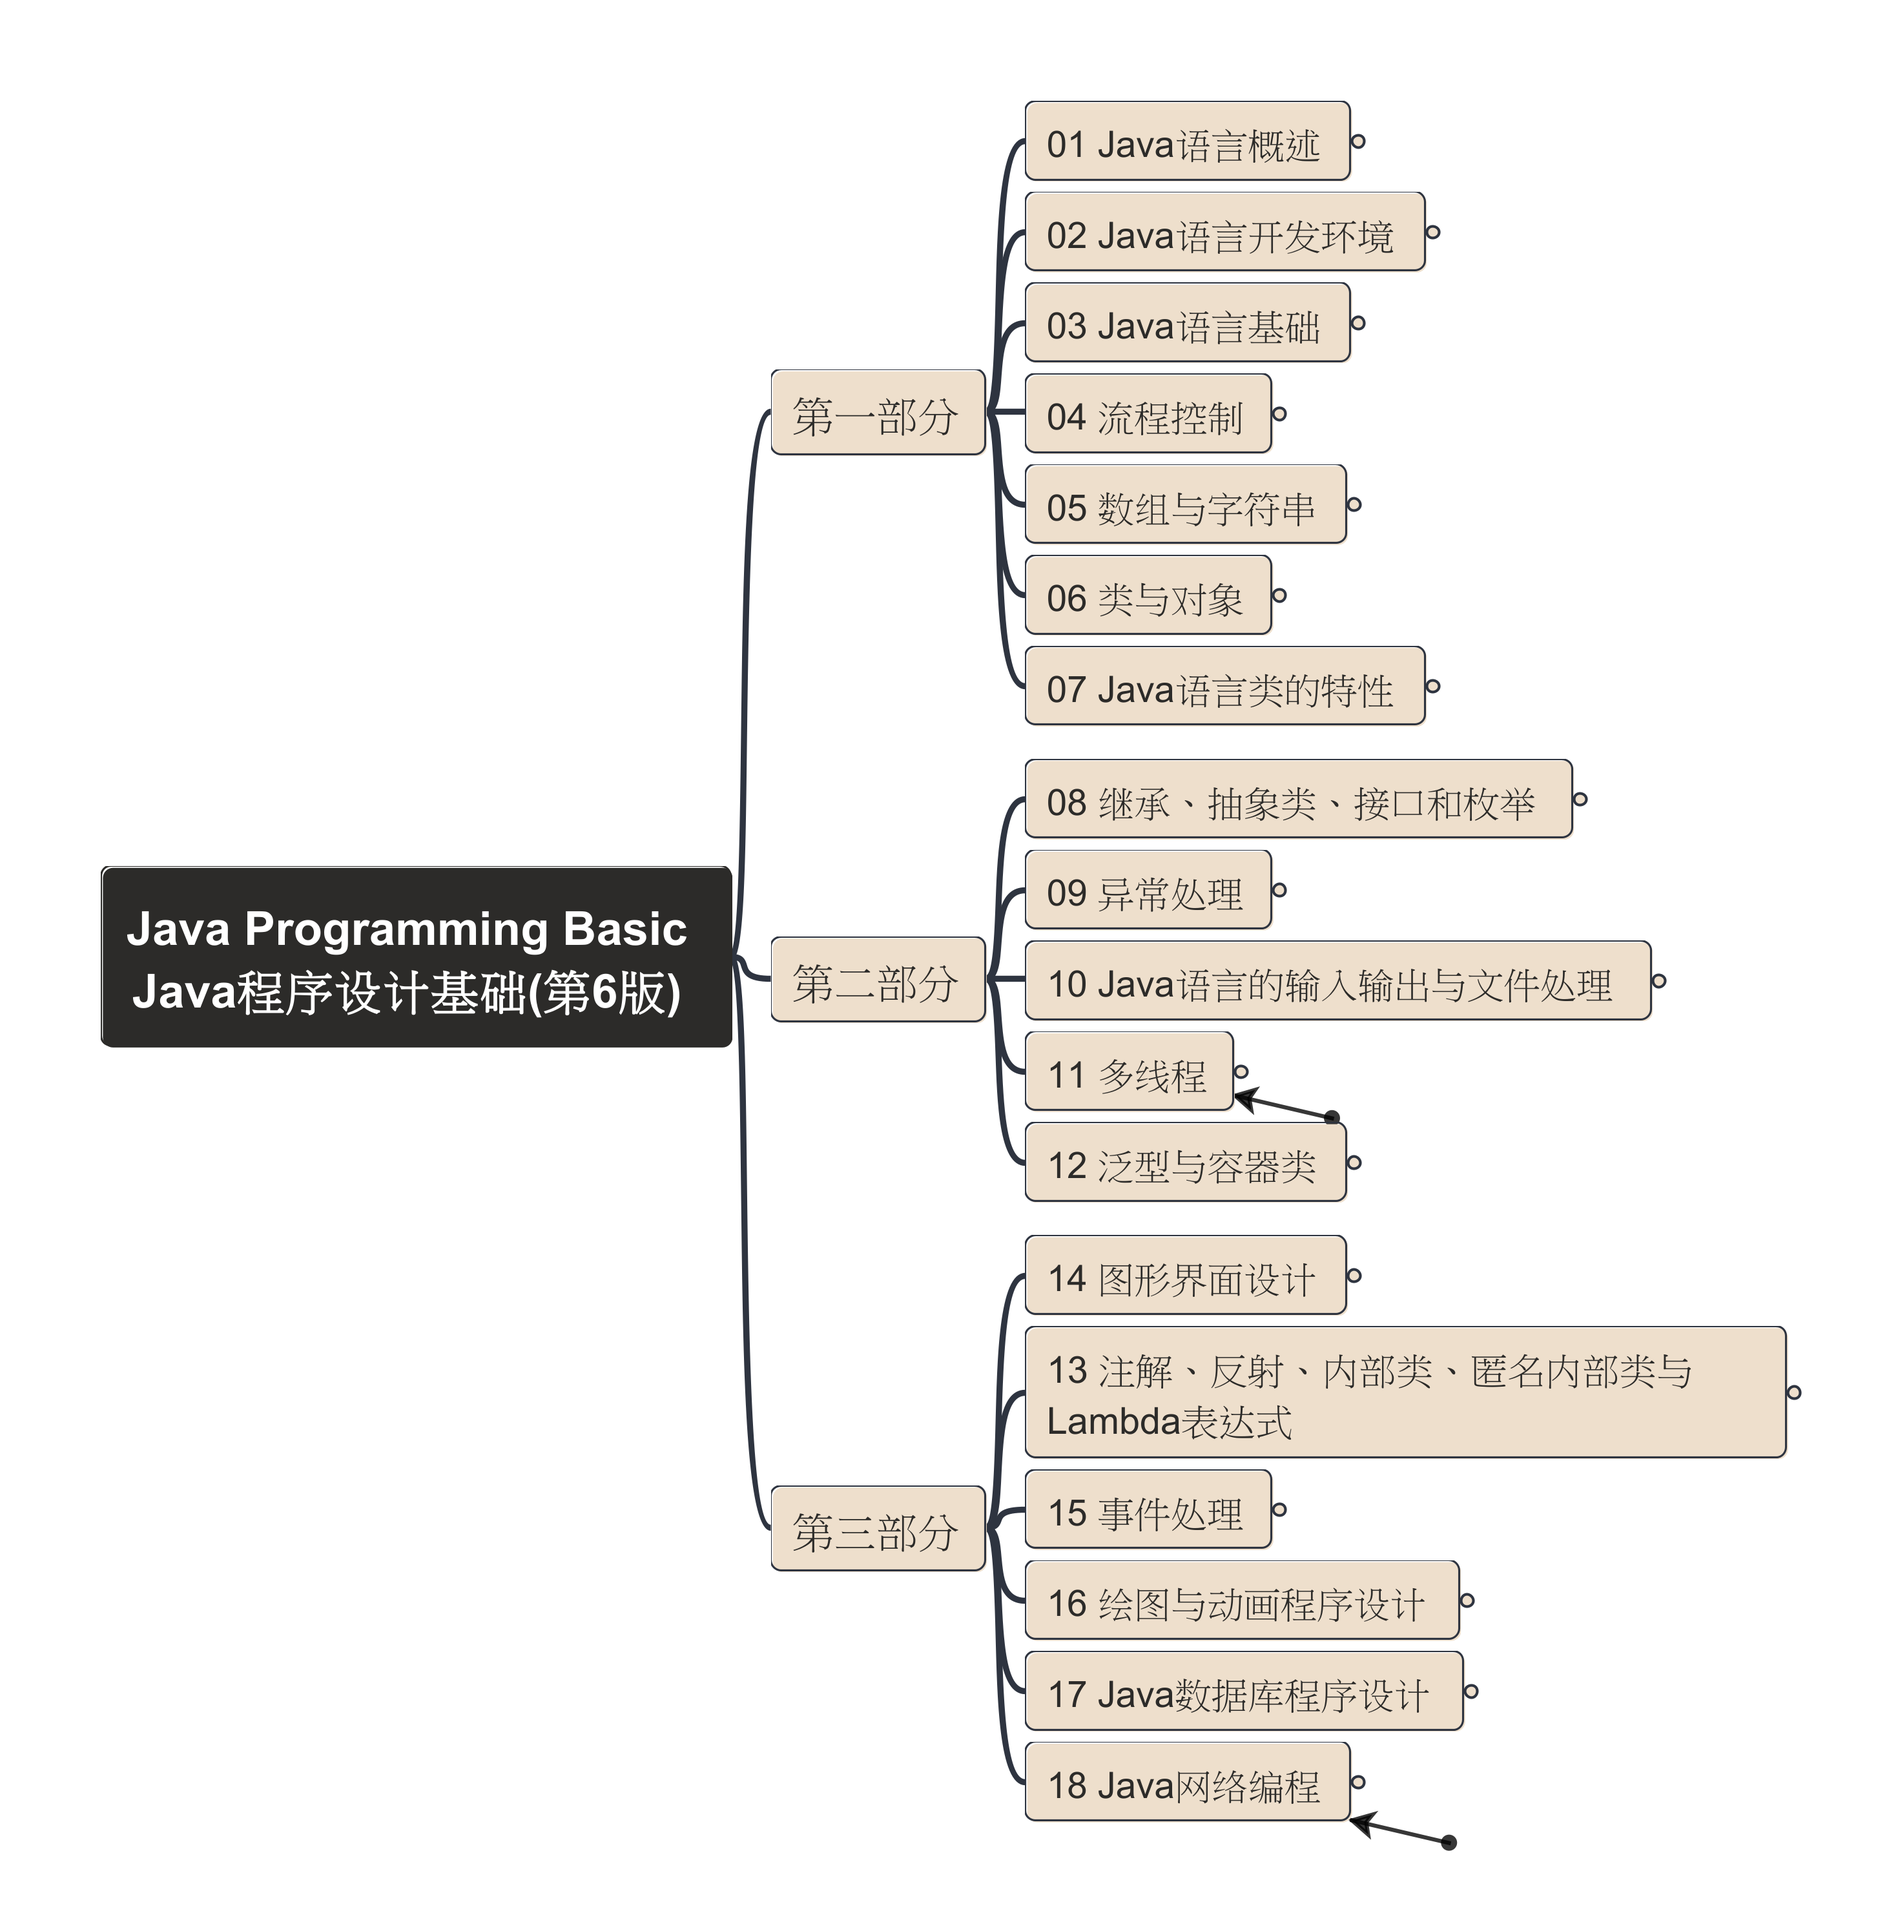
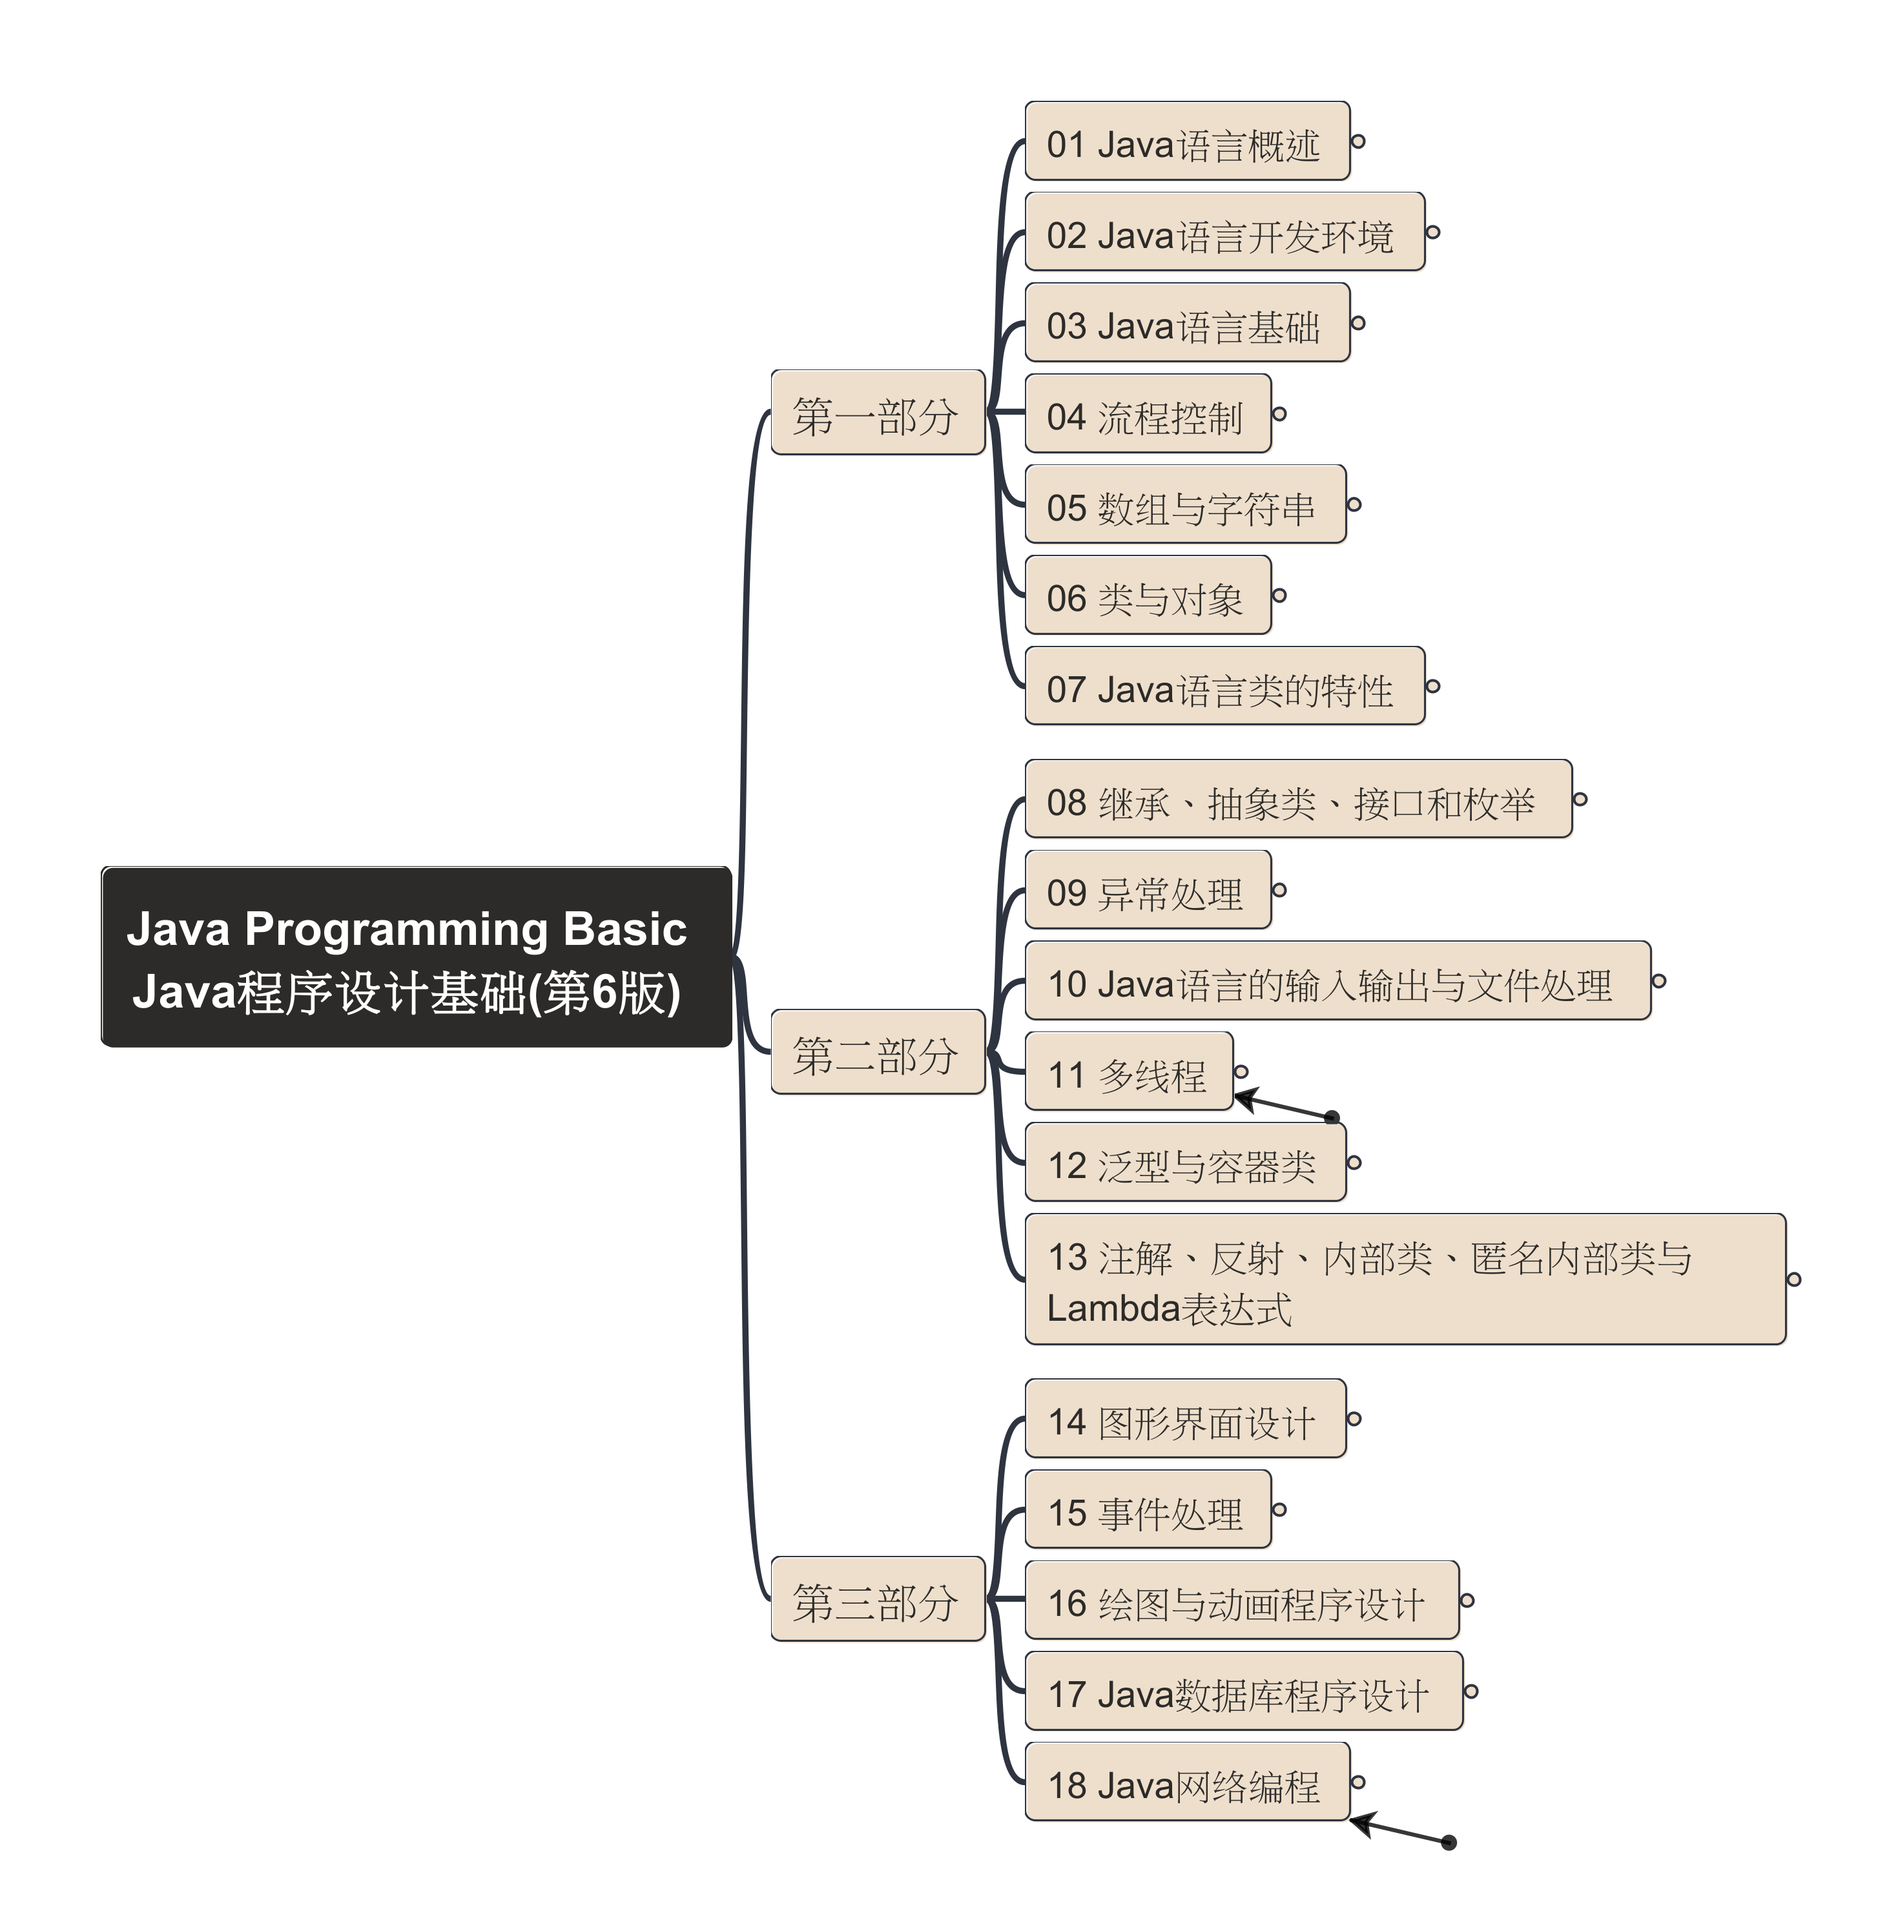
finish 8.1.1

Changed region(s): [[0.5289, 0.5932, 0.9644, 0.7805], [0.3733, 0.7492, 0.56, 0.8741], [0.3733, 0.4683, 0.56, 0.5932]]

diff --git a/Java_Prog_Basic/08_inherit_abstract/8.1_class-inherit/App8_2/App8_2.java b/Java_Prog_Basic/08_inherit_abstract/8.1_class-inherit/App8_2/App8_2.java
@@ -1,0 +1,40 @@
+class Person {
+    private String name = "李四";
+    private int age = 22;
+    public Person() {
+        System.out.println("调用了Person类的无参构造方法");
+    }
+    public Person(String name, int age) {
+        System.out.println("调用了Person类的有参构造方法");
+        this.name = name;
+        this.age = age;
+    }
+    public void show() {
+        System.out.println("姓名：" + name + " 年龄：" + age);
+    }
+}
+
+class Student extends Person {
+    private String department;
+    public Student() {
+        System.out.println("调用了学生类的无参构造方法Student()");
+    }
+    public Student(String name, int age, String dep) {
+        super(name, age);
+        this.department = dep;
+        System.out.println("调用了学生类的有参构造方法");
+        System.out.println("我是" + department + "的学生");
+        System.out.println("姓名：" + name + " 年龄：" + age);
+    }
+}
+
+public class App8_2 {
+    public static void main(String[] args) {
+        Person per1 = new Person();
+        Person per2 = new Person("张三", 25);
+        per1.show();
+        per2.show();
+        Student stu1 = new Student();
+        Student stu2 = new Student("王五", 28, "信息系");
+    }
+}

diff --git a/Java_Prog_Basic/08_inherit_abstract/8.1_class-inherit/App8_2/tempCodeRunnerFile.java b/Java_Prog_Basic/08_inherit_abstract/8.1_class-inherit/App8_2/tempCodeRunnerFile.java
@@ -1,0 +1,3 @@
+    // public Person() {
+    //     System.out.println("调用了Person类的无参构造方法");
+    // }

diff --git a/Java_Prog_Basic/README.md b/Java_Prog_Basic/README.md
@@ -6,6 +6,8 @@ This folder contains the code for the book "Java程序设计基础（第6版）"
 
 [![清华大学出版社](img/book_8th.jpg)](http://tup.tsinghua.edu.cn/bookscenter/book_10178901.html)
 
+本课程参考微信读书中上架的第6版电子版本进行演示。
+
 ## 课程思维导图
 
 [![课程思维导图](img/mm-image.png)](Java_Programming_Basic.mm)
